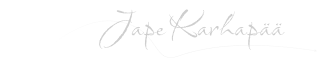
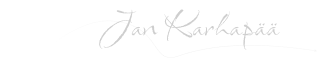
jan

Changed region(s): [[0.4543, 0.1316, 0.9085, 0.6316]]

diff --git a/app/components/Contact/Contact.js b/app/components/Contact/Contact.js
@@ -26,7 +26,7 @@ export default function Contact() {
               </Paragraph>
               <div className={styles.contactInfo}>
                 <Paragraph>
-                  <strong>Jape Karhapää</strong>
+                  <strong>Jan Karhapää</strong>
                 </Paragraph>
                 <Paragraph>
                   <strong>Osoite, Postinumero, Kitee</strong>
